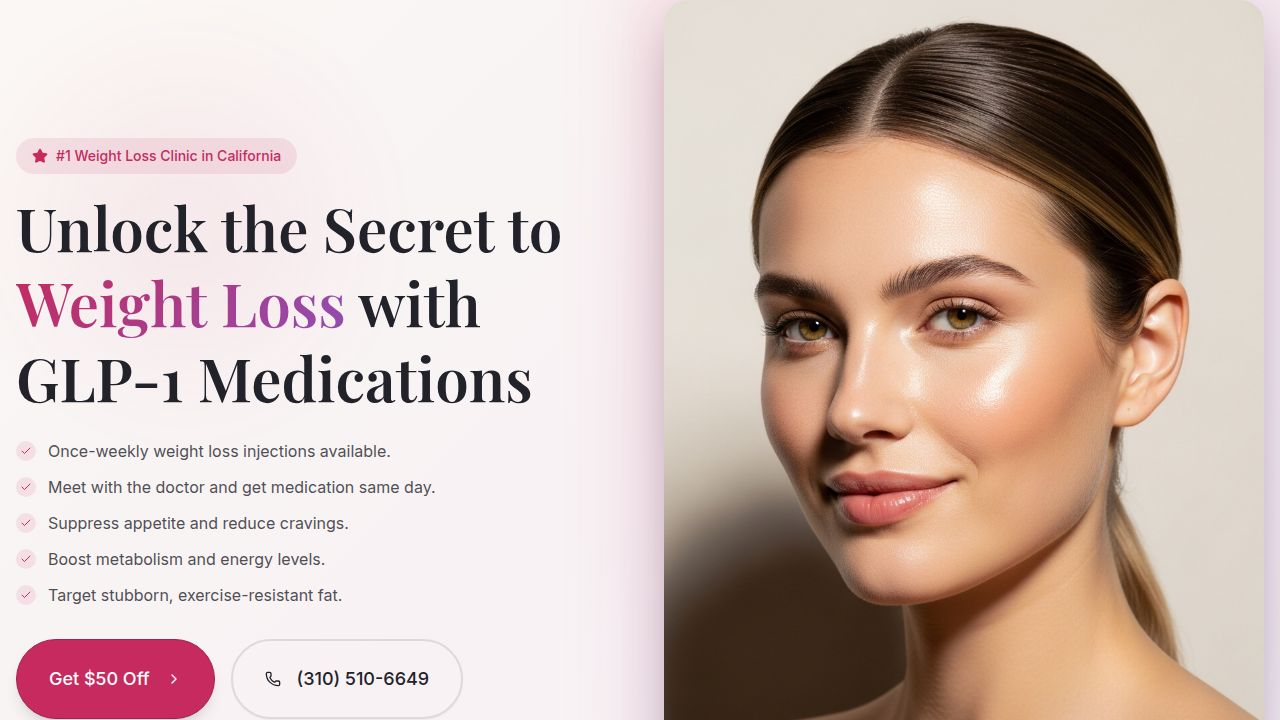
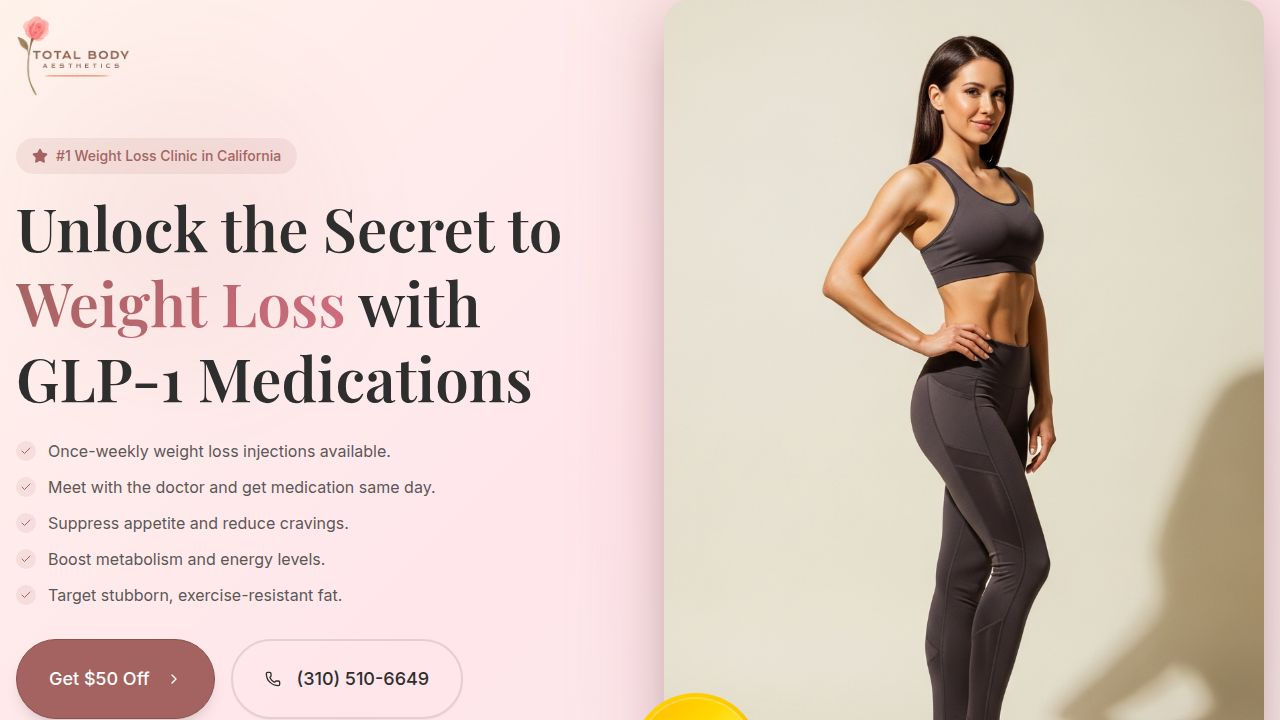
Add gold emblem to hero section with "top rated medical spa" text
Update the hero section in Home.tsx to include a gold emblem badge with "Top Rated Medical Spa" text, replacing the previous floating badge component.

Replit-Commit-Author: Agent
Replit-Commit-Session-Id: e6433894-be9d-4aea-9cf0-da0f0bec9bc8
Replit-Commit-Checkpoint-Type: full_checkpoint
Replit-Commit-Event-Id: 85f814d9-d525-40a0-b3e5-6bb8eea728db
Replit-Commit-Screenshot-Url: https://storage.googleapis.com/screenshot-production-us-central1/ca29751d-a69d-43e0-847e-7e71b811e593/e6433894-be9d-4aea-9cf0-da0f0bec9bc8/dFqa6m8
Replit-Helium-Checkpoint-Created: true

diff --git a/client/src/pages/Home.tsx b/client/src/pages/Home.tsx
@@ -195,19 +195,17 @@ export default function Home() {
                   data-testid="img-hero"
                 />
                 
-                {/* Floating Badge */}
+                {/* Gold Emblem Badge */}
                 <motion.div 
-                  className="absolute -bottom-4 -left-4 lg:bottom-8 lg:-left-8 bg-white rounded-2xl shadow-xl p-4 border border-border/50"
+                  className="absolute -bottom-4 -left-4 lg:bottom-8 lg:-left-8"
                   animate={{ y: [0, -8, 0] }}
                   transition={{ duration: 3, repeat: Infinity, ease: "easeInOut" }}
                 >
-                  <div className="flex items-center gap-3">
-                    <div className="w-12 h-12 bg-primary/10 rounded-full flex items-center justify-center">
-                      <Star className="w-6 h-6 text-primary fill-primary" />
-                    </div>
-                    <div>
-                      <p className="text-sm font-medium text-foreground">Top Rated</p>
-                      <p className="text-xs text-muted-foreground">Med Spa 2024</p>
+                  <div className="w-28 h-28 lg:w-32 lg:h-32 rounded-full bg-gradient-to-br from-amber-300 via-yellow-400 to-amber-500 p-1 shadow-xl">
+                    <div className="w-full h-full rounded-full bg-gradient-to-br from-amber-400 via-yellow-300 to-amber-400 flex flex-col items-center justify-center text-center border-2 border-amber-200/50">
+                      <Star className="w-5 h-5 text-amber-800 fill-amber-700 mb-1" />
+                      <p className="text-[10px] lg:text-xs font-bold text-amber-900 uppercase tracking-wide leading-tight px-2">Top Rated</p>
+                      <p className="text-[10px] lg:text-xs font-bold text-amber-800 uppercase tracking-wide leading-tight px-2">Medical Spa</p>
                     </div>
                   </div>
                 </motion.div>
